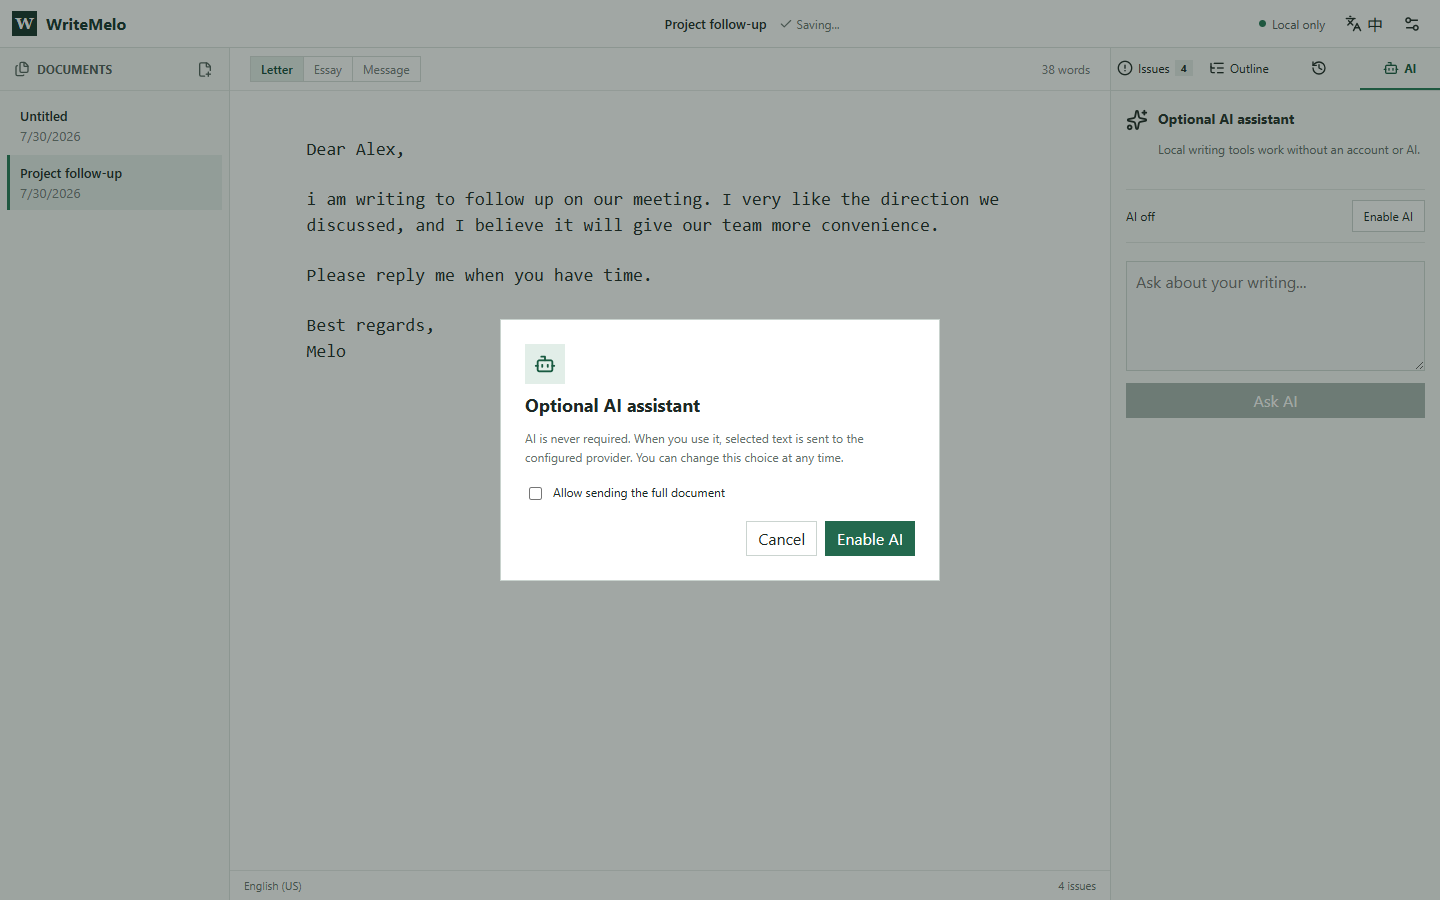
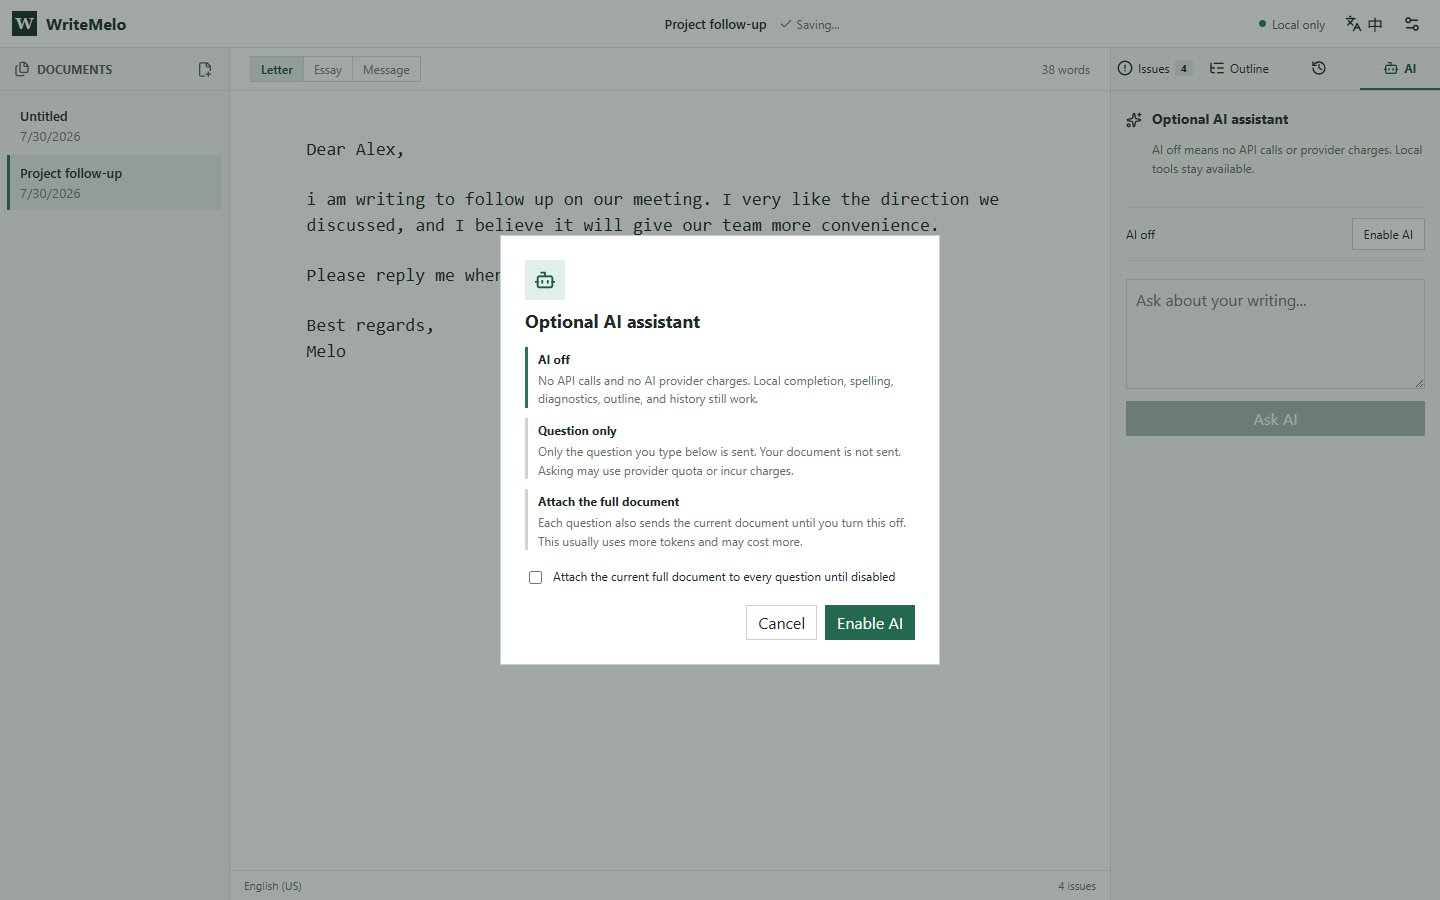
feat: clarify AI cost and document sharing

diff --git a/apps/web/src/App.tsx b/apps/web/src/App.tsx
@@ -393,7 +393,11 @@ export function App() {
             </div>}
             {rightTab === 'ai' && <div className="ai-panel">
               <div className="ai-heading"><Sparkles size={22} /><div><h3>{t(locale, 'aiTitle')}</h3><p>{t(locale, 'aiDescription')}</p></div></div>
-              <div className="privacy-row"><span>{aiConsent.mode === 'off' ? t(locale, 'aiOff') : 'Manual only'}</span><button className="secondary" onClick={() => setShowConsent(true)}>{aiConsent.mode === 'off' ? t(locale, 'enableAi') : t(locale, 'settings')}</button></div>
+              <div className="privacy-row"><span>{aiConsent.mode === 'off'
+                ? t(locale, 'aiOff')
+                : aiConsent.allowFullDocument
+                  ? (locale === 'en' ? 'On demand: question + full document' : '按需调用：问题 + 当前全文')
+                  : (locale === 'en' ? 'On demand: question only' : '按需调用：仅发送问题')}</span><button className="secondary" onClick={() => setShowConsent(true)}>{aiConsent.mode === 'off' ? t(locale, 'enableAi') : t(locale, 'settings')}</button></div>
               {window.writeMeloDesktop?.byok && <section className="byok-settings">
                 <h3>{locale === 'en' ? 'Your AI provider' : '自备 AI 服务'}</h3>
                 <p>{locale === 'en' ? 'The provider receives only text you explicitly send and may charge your account.' : '供应商只会收到你主动发送的文本，并可能向你的账号收费。'}</p>
@@ -427,7 +431,11 @@ export function App() {
       {showConsent && <div className="modal-backdrop" role="presentation">
         <section className="modal" role="dialog" aria-modal="true" aria-labelledby="consent-title">
           <div className="modal-icon"><Bot size={22} /></div><h2 id="consent-title">{t(locale, 'aiTitle')}</h2>
-          <p>{locale === 'en' ? 'AI is never required. When you use it, selected text is sent to the configured provider. You can change this choice at any time.' : 'AI 从不强制使用。使用时，所选文本会发送给配置的供应商；你可以随时更改选择。'}</p>
+          <div className="consent-levels">
+            <div><strong>{locale === 'en' ? 'AI off' : 'AI 已关闭'}</strong><p>{locale === 'en' ? 'No API calls and no AI provider charges. Local completion, spelling, diagnostics, outline, and history still work.' : '不调用 API，不产生 AI 供应商费用。本地补全、拼写、诊断、大纲和历史仍然可用。'}</p></div>
+            <div><strong>{locale === 'en' ? 'Question only' : '仅询问 AI'}</strong><p>{locale === 'en' ? 'Only the question you type below is sent. Your document is not sent. Asking may use provider quota or incur charges.' : '只发送你在下方输入的问题，不发送文档。实际提问可能消耗供应商额度或产生费用。'}</p></div>
+            <div><strong>{locale === 'en' ? 'Attach the full document' : '附带当前全文'}</strong><p>{locale === 'en' ? 'Each question also sends the current document until you turn this off. This usually uses more tokens and may cost more.' : '关闭此选项前，每次提问都会同时发送当前文档，通常消耗更多 token，也可能产生更多费用。'}</p></div>
+          </div>
           <label className="checkbox"><input id="full-doc-consent" type="checkbox" />{t(locale, 'fullDocument')}</label>
           <div className="modal-actions"><button className="secondary" onClick={() => setShowConsent(false)}>{t(locale, 'cancel')}</button><button className="primary" onClick={() => confirmAi((document.getElementById('full-doc-consent') as HTMLInputElement).checked)}>{t(locale, 'enableAi')}</button></div>
         </section>

diff --git a/packages/i18n/src/index.ts b/packages/i18n/src/index.ts
@@ -6,8 +6,8 @@ const messages = {
     newDocument: 'New document', untitled: 'Untitled', saved: 'Saved locally',
     saving: 'Saving...', words: 'words', noIssues: 'No local issues found',
     localOnly: 'Local only', aiOff: 'AI off', aiTitle: 'Optional AI assistant',
-    aiDescription: 'Local writing tools work without an account or AI.',
-    enableAi: 'Enable AI', cancel: 'Cancel', fullDocument: 'Allow sending the full document',
+    aiDescription: 'AI off means no API calls or provider charges. Local tools stay available.',
+    enableAi: 'Enable AI', cancel: 'Cancel', fullDocument: 'Attach the current full document to every question until disabled',
     askAi: 'Ask AI', selectIssue: 'Select an issue to see its explanation.',
     checklist: 'Submission checklist', settings: 'Writing settings', variant: 'English variant',
     format: 'Format', level: 'Level', deleteDocument: 'Delete document',
@@ -18,8 +18,8 @@ const messages = {
     newDocument: '新建文档', untitled: '未命名文档', saved: '已保存到本机',
     saving: '正在保存...', words: '词', noIssues: '未发现本地问题',
     localOnly: '仅本地', aiOff: 'AI 已关闭', aiTitle: '可选 AI 助手',
-    aiDescription: '本地写作工具无需账号，也无需 AI。',
-    enableAi: '启用 AI', cancel: '取消', fullDocument: '允许发送整篇文档',
+    aiDescription: 'AI 关闭时不调用 API，不产生 AI 供应商费用；本地工具照常可用。',
+    enableAi: '启用 AI', cancel: '取消', fullDocument: '附带当前全文：关闭前，每次提问都会发送当前文档',
     askAi: '询问 AI', selectIssue: '选择一个问题查看说明。',
     checklist: '提交检查', settings: '写作设置', variant: '英语变体',
     format: '文体', level: '难度', deleteDocument: '删除文档',

diff --git a/tests/e2e/workbench.spec.ts b/tests/e2e/workbench.spec.ts
@@ -21,8 +21,10 @@ test('applies a local correction without AI', async ({ page }) => {
 
 test('requires explicit consent before enabling AI', async ({ page }) => {
   let chatRequests = 0;
+  const payloads: Array<{ message: string; context: string; selection: string }> = [];
   await page.route('**/api/chat', async route => {
     chatRequests += 1;
+    payloads.push(route.request().postDataJSON() as { message: string; context: string; selection: string });
     await route.fulfill({ status: 200, contentType: 'application/json', body: JSON.stringify({ reply: 'Use a concise opening.' }) });
   });
   await page.getByRole('button', { name: 'AI', exact: true }).click();
@@ -36,6 +38,19 @@ test('requires explicit consent before enabling AI', async ({ page }) => {
   await page.getByRole('button', { name: '询问 AI' }).click();
   await expect(page.getByText('Use a concise opening.')).toBeVisible();
   expect(chatRequests).toBe(1);
+  expect(payloads[0]).toMatchObject({
+    message: 'How can I improve the opening?',
+    context: '',
+    selection: '',
+  });
+
+  await page.getByRole('button', { name: '写作设置' }).last().click();
+  await page.getByRole('dialog').getByRole('checkbox').check();
+  await page.getByRole('dialog').getByRole('button', { name: '启用 AI' }).click();
+  await page.getByLabel('AI question').fill('Review the complete email.');
+  await page.getByRole('button', { name: '询问 AI' }).click();
+  await expect.poll(() => chatRequests).toBe(2);
+  expect(payloads[1]?.context).toContain('Dear Alex,');
 });
 
 test('mobile editor starts with the inspector closed', async ({ page }) => {

diff --git a/apps/web/src/styles.css b/apps/web/src/styles.css
@@ -114,6 +114,11 @@ button { color: inherit; }
 .modal { width: min(440px, 100%); background: #fff; border: 1px solid #c8d2cd; padding: 24px; }
 .modal h2 { font-size: 18px; margin: 9px 0; }
 .modal-icon { width: 40px; height: 40px; display: grid; place-items: center; background: #e2eee8; color: #185a40; }
+.consent-levels { display: grid; gap: 10px; margin: 14px 0; }
+.consent-levels > div { border-left: 3px solid #cbd6d1; padding-left: 10px; }
+.consent-levels > div:first-child { border-left-color: #2b7458; }
+.consent-levels strong { font-size: 12px; }
+.consent-levels p { margin: 3px 0 0; }
 .checkbox { display: flex; gap: 8px; align-items: start; font-size: 12px; margin: 18px 0; }
 .modal-actions { display: flex; justify-content: flex-end; gap: 8px; }
 .loading { height: 100%; display: grid; place-items: center; font-weight: 700; color: #18352d; }

diff --git a/PRIVACY.md b/PRIVACY.md
@@ -10,7 +10,9 @@ In the browser, local data is stored in IndexedDB and local storage. In the Wind
 
 ## Optional AI
 
-AI is off by default. Enabling it requires an explicit action. Sending an entire document requires a separate checkbox. When a user invokes AI, the selected text or approved document and the minimum required writing settings may be sent to the configured service. The provider may retain or bill for requests under its own terms.
+AI is off by default. While it is off, WriteMelo makes no AI API requests and creates no AI provider charges. Local completion, spelling, diagnostics, outlines, and revision history remain available.
+
+Enabling question-only mode does not send the document. When the user asks a question, only that question and the minimum required request settings are sent to the configured provider. Attaching the current full document requires a separate checkbox; while enabled, every AI question also sends the active document until the user turns the option off. Any actual AI request may consume provider quota or incur charges under the provider's terms, and full-document requests generally use more tokens.
 
 The current beta UI implements this consent boundary. A production AI provider must not be enabled until its endpoint, retention terms, regional routing, and account controls are configured and reviewed.
 

diff --git a/docs/DEMO.md b/docs/DEMO.md
@@ -81,11 +81,11 @@ Every screenshot below comes from the working application. You can reproduce the
 
 **What you do:** Open **AI**, choose Enable AI, and decide separately whether the full document may be sent.
 
-**What happens:** AI stays unavailable until you confirm. Full-document access is not bundled into the basic consent.
+**What happens:** The dialog separates three states: AI off makes zero API calls and creates no provider charges; question-only sends only what you type; full-document mode attaches the active document to every question until disabled.
 
 **What you gain:** Local tools remain useful without an account or AI, while deeper review is available only when you request it.
 
-**Network / AI:** Still no request at this step. A request occurs only after consent and after you ask a question.
+**Network / AI:** Opening settings or enabling on-demand mode sends nothing. A provider is called only when you actually ask, which may consume quota or incur charges; full-document requests generally use more tokens.
 
 ## 7. You want to choose the AI provider and control the cost
 

diff --git a/docs/DEMO.zh-CN.md b/docs/DEMO.zh-CN.md
@@ -81,11 +81,11 @@ Melo
 
 **你做什么：** 打开“AI”，选择“启用 AI”，再单独决定是否允许发送整篇文档。
 
-**界面发生什么：** 在确认之前 AI 不可使用；允许整篇文档不是默认捆绑选项。
+**界面发生什么：** 弹窗明确区分三种状态：关闭时零 API 调用、零 AI 供应商费用；仅询问时只发送问题；勾选全文后，每次提问都会附带当前文档，直到关闭。
 
 **你得到什么：** 没有账号、没有 AI 时，本地工具仍然完整可用；确实需要深入分析时才主动调用 AI。
 
-**联网 / AI：** 此时仍未发送请求。只有确认后又主动提问，才会调用供应商。
+**联网 / AI：** 打开设置和启用按需模式本身都不发送请求。只有用户真正提问才调用供应商，并可能消耗额度或产生费用；全文模式通常消耗更多 token。
 
 ## 7. 想自己决定使用哪个 AI、花多少钱
 
